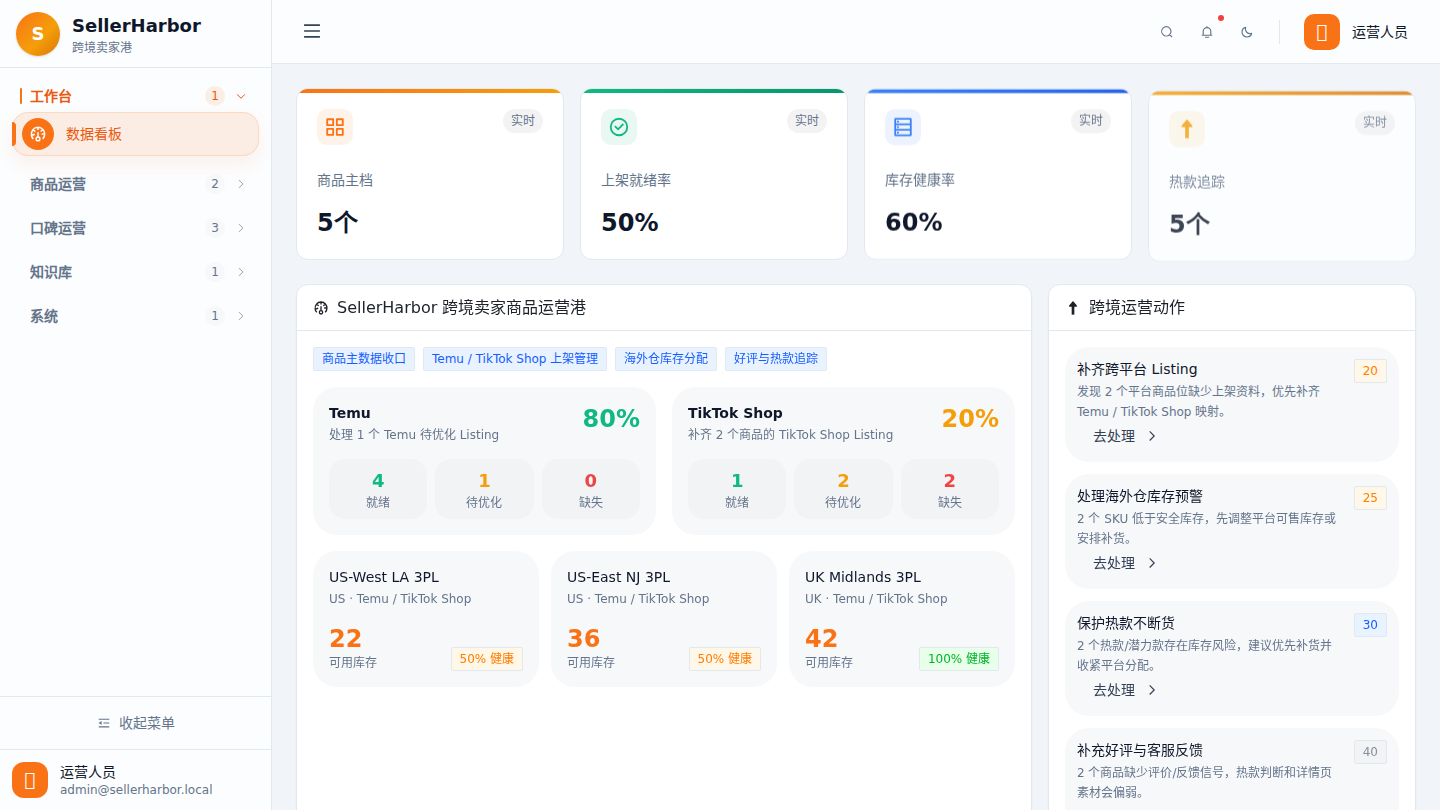
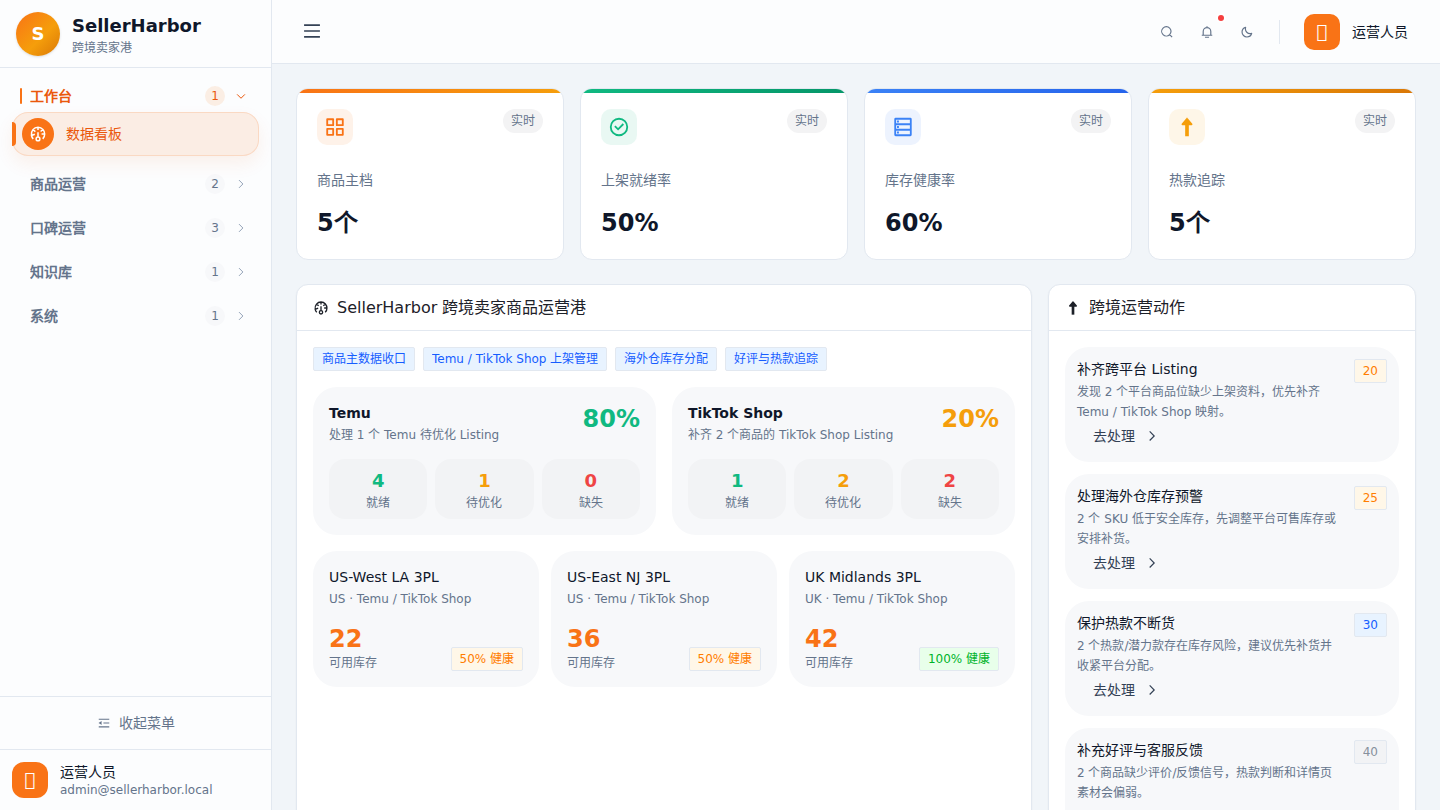
Add SellerHarbor case study

diff --git a/projects/sellerharbor.html b/projects/sellerharbor.html
@@ -1,0 +1,314 @@
+<!doctype html>
+<html lang="zh-CN">
+  <head>
+    <meta charset="utf-8" />
+    <meta name="viewport" content="width=device-width, initial-scale=1" />
+    <meta name="color-scheme" content="dark" />
+    <meta name="description" content="SellerHarbor 重点案例：面向 Temu、TikTok Shop 等跨境卖家的商品运营港，覆盖商品主档、平台 Listing、海外仓库存、真实反馈、内容生成、审核导出和可靠性底座。" />
+    <link rel="canonical" href="https://tiammomo.github.io/projects/sellerharbor.html" />
+    <meta property="og:title" content="SellerHarbor · Tiammomo Case Study" />
+    <meta property="og:description" content="跨境卖家的商品运营港：商品主数据、平台 Listing、共享海外仓库存、真实反馈、合规生成和审核工作流。" />
+    <meta property="og:type" content="article" />
+    <meta property="og:url" content="https://tiammomo.github.io/projects/sellerharbor.html" />
+    <meta property="og:image" content="https://tiammomo.github.io/assets/images/sellerharbor/dashboard.png" />
+    <title>SellerHarbor · Tiammomo Case Study</title>
+    <link rel="icon" href="../assets/favicon.svg" type="image/svg+xml" />
+    <link rel="preload" as="image" href="../assets/images/sellerharbor/dashboard.png" type="image/png" />
+    <link rel="stylesheet" href="../styles.css" />
+  </head>
+  <body class="case-page">
+    <header class="case-header">
+      <a class="case-header-brand" href="../index.html" aria-label="Tiammomo 主页">
+        <span class="case-header-mark" aria-hidden="true">T</span>
+        <span>Tiammomo</span>
+      </a>
+      <nav class="case-nav" aria-label="案例导航">
+        <a href="../index.html#work">← 返回项目</a>
+        <a class="case-nav-gh" href="https://github.com/tiammomo/SellerHarbor" rel="noreferrer">GitHub ↗</a>
+      </nav>
+    </header>
+
+    <main>
+      <section class="case-hero">
+        <div class="container">
+          <div class="case-hero-grid">
+            <div class="case-hero-text">
+              <span class="section-tag">Case Study</span>
+              <h1>SellerHarbor</h1>
+              <p class="case-hero-lead">
+                面向 Temu、TikTok Shop 等跨境卖家的商品运营港。它把商品主档、平台 Listing、共享海外仓库存、真实反馈、热款信号、内容生成和审核动作收口到一个可追踪、可审计、可扩展的工作台里，让卖家能围绕商品运营做出更稳的下一步决策。
+              </p>
+              <div class="case-hero-actions">
+                <a class="btn btn-primary btn-lg" href="https://github.com/tiammomo/SellerHarbor" rel="noreferrer">查看仓库</a>
+                <a class="btn btn-ghost btn-lg" href="../index.html#work">更多项目</a>
+              </div>
+            </div>
+            <div class="case-hero-visual">
+              <div class="case-hero-glow" aria-hidden="true"></div>
+              <img src="../assets/images/sellerharbor/dashboard.png" alt="SellerHarbor 跨境卖家商品运营看板截图" />
+            </div>
+          </div>
+        </div>
+      </section>
+
+      <section class="case-section">
+        <div class="container">
+          <div class="case-duo">
+            <article class="case-duo-card">
+              <div class="case-duo-icon" aria-hidden="true">◇</div>
+              <span class="case-duo-kicker">Problem</span>
+              <h2>跨境卖家的商品运营信息被拆散了</h2>
+              <p>同一批 SKU 往往同时面向 Temu、TikTok Shop 等多个平台，商品资料、Listing 状态、素材准备度、海外仓库存、低库存预警、好评反馈和热款动作分散在平台后台、表格、客服记录和仓库系统里。SellerHarbor 的目标，是把这些信息收口成一个轻量但可靠的商品运营控制面。</p>
+            </article>
+            <article class="case-duo-card">
+              <div class="case-duo-icon" aria-hidden="true">◆</div>
+              <span class="case-duo-kicker">My Role</span>
+              <h2>把电商运营流程做成可运行的全栈产品</h2>
+              <p>项目覆盖 Next.js / React / Arco Design 前端工作台，FastAPI / Pydantic / LangChain / LangGraph 后端服务，SQLite 与 MinIO 的 MVP 存储，Docker Compose 本地栈，以及 readiness、metrics、审计、限流、请求 ID、任务恢复和 Temu 只读同步预留。</p>
+            </article>
+          </div>
+        </div>
+      </section>
+
+      <section class="case-section">
+        <div class="container">
+          <div class="section-header">
+            <span class="section-tag">Product Screens</span>
+            <h2>本地运行系统真实截图</h2>
+          </div>
+          <div class="case-screenshots">
+            <figure class="case-ss case-ss--hero">
+              <div class="case-ss-frame">
+                <img src="../assets/images/sellerharbor/dashboard.png" alt="SellerHarbor 跨境运营看板" loading="lazy" />
+              </div>
+              <figcaption>
+                <strong>跨境运营看板</strong>
+                <span>商品主档、上架就绪率、库存健康率、热款追踪、平台 Listing、海外仓库存和下一步运营动作集中呈现。</span>
+              </figcaption>
+            </figure>
+            <figure class="case-ss">
+              <div class="case-ss-frame">
+                <img src="../assets/images/sellerharbor/products.png" alt="SellerHarbor 商品主档页面" loading="lazy" />
+              </div>
+              <figcaption>
+                <strong>商品主档</strong>
+                <span>统一维护 SKU、平台 Listing、海外仓库存、卖点、素材准备度和反馈证据，把商品资料变成后续运营动作的底座。</span>
+              </figcaption>
+            </figure>
+            <figure class="case-ss">
+              <div class="case-ss-frame">
+                <img src="../assets/images/sellerharbor/feedback.png" alt="SellerHarbor 评价反馈整理页面" loading="lazy" />
+              </div>
+              <figcaption>
+                <strong>真实反馈整理</strong>
+                <span>把客户授权反馈、客服回访、售后摘要和平台公开评价拆成确认事实、主观感受、不确定信息和风险标记。</span>
+              </figcaption>
+            </figure>
+            <figure class="case-ss">
+              <div class="case-ss-frame">
+                <img src="../assets/images/sellerharbor/generate.png" alt="SellerHarbor 内容生成工作台" loading="lazy" />
+              </div>
+              <figcaption>
+                <strong>内容生成工作台</strong>
+                <span>基于商品资料和真实反馈生成评价邀请、客服回访、推荐语和详情页口碑素材，保留平台、语气、长度和人称配置。</span>
+              </figcaption>
+            </figure>
+            <figure class="case-ss">
+              <div class="case-ss-frame">
+                <img src="../assets/images/sellerharbor/review.png" alt="SellerHarbor 审核与导出页面" loading="lazy" />
+              </div>
+              <figcaption>
+                <strong>审核与导出</strong>
+                <span>生成内容默认进入人工审核，支持查看依据、质量分、风险标记、通过、驳回、重写、复制和 CSV 导出。</span>
+              </figcaption>
+            </figure>
+            <figure class="case-ss">
+              <div class="case-ss-frame">
+                <img src="../assets/images/sellerharbor/settings.png" alt="SellerHarbor 系统设置与接入状态" loading="lazy" />
+              </div>
+              <figcaption>
+                <strong>系统状态与平台接入</strong>
+                <span>展示 LLM、readiness、默认店铺、Temu 只读同步准备、多店铺扩展槽和系统安全配置。</span>
+              </figcaption>
+            </figure>
+          </div>
+        </div>
+      </section>
+
+      <section class="case-section">
+        <div class="container">
+          <div class="section-header">
+            <span class="section-tag">Capabilities</span>
+            <h2>核心模块</h2>
+          </div>
+          <div class="case-cap-grid">
+            <div class="case-cap-item">
+              <span class="case-cap-num">01</span>
+              <div>
+                <h3>商品主数据</h3>
+                <p>统一维护商品名称、类目、SKU、变体、平台目标、卖点、素材、禁用词和服务承诺。</p>
+              </div>
+            </div>
+            <div class="case-cap-item">
+              <span class="case-cap-num">02</span>
+              <div>
+                <h3>平台 Listing 管理</h3>
+                <p>围绕 Temu / TikTok Shop 跟踪标题、描述、类目、素材、状态、缺失字段和优先补齐动作。</p>
+              </div>
+            </div>
+            <div class="case-cap-item">
+              <span class="case-cap-num">03</span>
+              <div>
+                <h3>海外仓库存</h3>
+                <p>按仓库、SKU、平台和安全库存线展示可用库存、占用库存、低库存预警和热款断货风险。</p>
+              </div>
+            </div>
+            <div class="case-cap-item">
+              <span class="case-cap-num">04</span>
+              <div>
+                <h3>真实反馈整理</h3>
+                <p>不依赖外部模型也能从原始反馈中提取摘要、确认事实、主观感受、风险点和推荐用途。</p>
+              </div>
+            </div>
+            <div class="case-cap-item">
+              <span class="case-cap-num">05</span>
+              <div>
+                <h3>合规内容生成</h3>
+                <p>生成评价邀请、客服回访、推荐语和口碑描述；第一人称体验必须存在真实反馈依据。</p>
+              </div>
+            </div>
+            <div class="case-cap-item">
+              <span class="case-cap-num">06</span>
+              <div>
+                <h3>审核与导出</h3>
+                <p>内容质量分、平台风险、事实一致性和人工审核动作进入可追踪流程，支持复制和 CSV 导出。</p>
+              </div>
+            </div>
+            <div class="case-cap-item">
+              <span class="case-cap-num">07</span>
+              <div>
+                <h3>多店铺预留</h3>
+                <p>当前默认单店铺运行，模型里保留 Store Registry、storeId 边界和多平台授权扩展槽。</p>
+              </div>
+            </div>
+            <div class="case-cap-item">
+              <span class="case-cap-num">08</span>
+              <div>
+                <h3>可靠性底座</h3>
+                <p>Docker healthcheck、readiness、metrics、请求 ID、限流、租户隔离、审计和超时任务恢复。</p>
+              </div>
+            </div>
+          </div>
+        </div>
+      </section>
+
+      <section class="case-section">
+        <div class="container">
+          <div class="section-header">
+            <span class="section-tag">Architecture</span>
+            <h2>从商品资料到可审核运营动作</h2>
+          </div>
+          <div class="case-flow">
+            <div class="case-flow-track" aria-hidden="true"></div>
+            <article class="case-flow-step">
+              <span class="case-flow-num">01</span>
+              <h3>Next.js Workbench</h3>
+              <p>看板、商品、反馈、生成、审核和设置页面组成跨境运营工作台，统一发送租户和 API key 上下文。</p>
+            </article>
+            <article class="case-flow-step">
+              <span class="case-flow-num">02</span>
+              <h3>FastAPI Service</h3>
+              <p>后端承载商品、反馈、生成任务、审核、运营概览、店铺注册、Temu 状态、审计和系统健康接口。</p>
+            </article>
+            <article class="case-flow-step">
+              <span class="case-flow-num">03</span>
+              <h3>Data & Generation</h3>
+              <p>SQLite 存储 MVP 元数据，MinIO 管理资产；LangGraph / LangChain 负责生成链路，反馈整理可本地降级。</p>
+            </article>
+            <article class="case-flow-step">
+              <span class="case-flow-num">04</span>
+              <h3>Ops Guardrails</h3>
+              <p>readiness、metrics、限流、审计、任务超时恢复和 Docker Compose healthcheck 让本地栈具备可运维性。</p>
+            </article>
+          </div>
+        </div>
+      </section>
+
+      <section class="case-section">
+        <div class="container">
+          <div class="case-duo">
+            <article class="case-duo-card case-duo-card--good">
+              <div class="case-duo-icon" aria-hidden="true">✓</div>
+              <span class="case-duo-kicker">本地实操</span>
+              <h2>当前演示栈已实际运行</h2>
+              <ul class="case-list">
+                <li><code>http://localhost:33001/dashboard</code> 前端工作台可访问。</li>
+                <li><code>http://localhost:38081/api/health</code> 返回 <code>status: ok</code>。</li>
+                <li><code>/api/readiness</code> 当前为 <code>healthy</code>，SQLite、MinIO、Store Registry 和租户边界已就绪。</li>
+                <li><code>/api/commerce/overview</code> 返回 5 个商品主档、50% 上架就绪率、60% 库存健康率和 5 个热款/潜力款。</li>
+                <li><code>/api/metrics</code> 暴露请求总数、错误数、限流数、平均耗时和生成任务状态。</li>
+              </ul>
+            </article>
+            <article class="case-duo-card case-duo-card--bad">
+              <div class="case-duo-icon" aria-hidden="true">!</div>
+              <span class="case-duo-kicker">产品边界</span>
+              <h2>明确不做刷评和自动写回</h2>
+              <ul class="case-list">
+                <li>不生成冒充真实消费者的虚假评价，不支持刷评、刷单或规避平台风控。</li>
+                <li>第一阶段不自动发布商品，也不自动调整平台库存，平台写回能力默认后置。</li>
+                <li>不替代完整 ERP、财务、采购、官方履约系统或平台 Seller Center。</li>
+                <li>高风险内容必须进入人工审核，不把生成结果直接当作可发布事实。</li>
+              </ul>
+            </article>
+          </div>
+        </div>
+      </section>
+
+      <section class="case-section">
+        <div class="container">
+          <div class="section-header">
+            <span class="section-tag">Roadmap</span>
+            <h2>后续方向</h2>
+          </div>
+          <div class="case-roadmap">
+            <article class="case-roadmap-item">
+              <span class="case-roadmap-marker" aria-hidden="true">→</span>
+              <div>
+                <h3>结构化商品运营模型</h3>
+                <p>把仓库、库存、平台 Listing、店铺授权和平台占用从商品属性迁移到结构化表。</p>
+              </div>
+            </article>
+            <article class="case-roadmap-item">
+              <span class="case-roadmap-marker" aria-hidden="true">→</span>
+              <div>
+                <h3>平台只读同步</h3>
+                <p>Temu 先做商品、订单、履约和库存信号的只读 dry-run，再导入 SellerHarbor 主档。</p>
+              </div>
+            </article>
+            <article class="case-roadmap-item">
+              <span class="case-roadmap-marker" aria-hidden="true">→</span>
+              <div>
+                <h3>生产化底座升级</h3>
+                <p>迁移到 PostgreSQL、Redis worker、正式权限、备份恢复、集中日志、指标和告警。</p>
+              </div>
+            </article>
+            <article class="case-roadmap-item">
+              <span class="case-roadmap-marker" aria-hidden="true">→</span>
+              <div>
+                <h3>商品运营 Agent</h3>
+                <p>围绕低库存、热款补货、Listing 缺口、反馈风险和素材优先级，形成可解释的运营建议 Agent。</p>
+              </div>
+            </article>
+          </div>
+        </div>
+      </section>
+    </main>
+
+    <footer class="case-footer">
+      <div class="container case-footer-inner">
+        <a href="../index.html#work">← 返回项目列表</a>
+        <a href="https://github.com/tiammomo/SellerHarbor" rel="noreferrer">GitHub →</a>
+      </div>
+    </footer>
+  </body>
+</html>

diff --git a/index.html b/index.html
@@ -246,7 +246,8 @@
                 <span>库存 / Listing</span>
               </div>
               <div class="project-actions">
-                <a class="project-link" href="https://github.com/tiammomo/SellerHarbor" rel="noreferrer">GitHub →</a>
+                <a class="project-link" href="projects/sellerharbor.html">案例详情 →</a>
+                <a class="project-link project-link-muted" href="https://github.com/tiammomo/SellerHarbor" rel="noreferrer">GitHub →</a>
               </div>
             </article>
 

diff --git a/en.html b/en.html
@@ -154,7 +154,7 @@
               <p class="project-desc">A product operations harbor for Temu and TikTok Shop sellers, unifying product master data, platform listings, overseas inventory, real feedback, generation, and review workflows.</p>
               <div class="project-tags"><span class="tag">Next.js</span><span class="tag">FastAPI</span><span class="tag">Commerce Ops</span></div>
               <div class="project-meta"><span>Seller workspace</span><span>Inventory / Listing</span></div>
-              <div class="project-actions"><a class="project-link" href="https://github.com/tiammomo/SellerHarbor" rel="noreferrer">GitHub →</a></div>
+              <div class="project-actions"><a class="project-link" href="projects/sellerharbor.html">Case Study →</a><a class="project-link project-link-muted" href="https://github.com/tiammomo/SellerHarbor" rel="noreferrer">GitHub →</a></div>
             </article>
 
             <article class="project-card" data-category="ai data">

diff --git a/README.md b/README.md
@@ -75,7 +75,7 @@ https://tiammomo.github.io/
 - 项目区结构在 `index.html` / `en.html` 的 `#work` 区域维护。
 - 项目数据源在 `data/projects.json`，中文首页和英文首页会优先从这里渲染项目卡片；HTML 内仍保留静态卡片作为 fallback。
 - 英文首页在 `en.html`，与中文首页保持同一套视觉与项目入口。
-- 重点案例页放在 `projects/` 目录，目前包含 ModelPort、QuantPilot 和 Travel Agent。
+- 重点案例页放在 `projects/` 目录，目前包含 ModelPort、QuantPilot、Mamoji、SellerHarbor 和 Travel Agent。
 - 项目筛选通过卡片上的 `data-category` 和筛选按钮的 `data-filter` 对应。
 - 状态灯通过 `data-status` 控制：`active`、`wip`、`archived`。
 - 动漫风格图片资产放在 `assets/images/generated/`，页面优先加载 `webp`，并保留 `png` 作为社交分享和兼容 fallback。